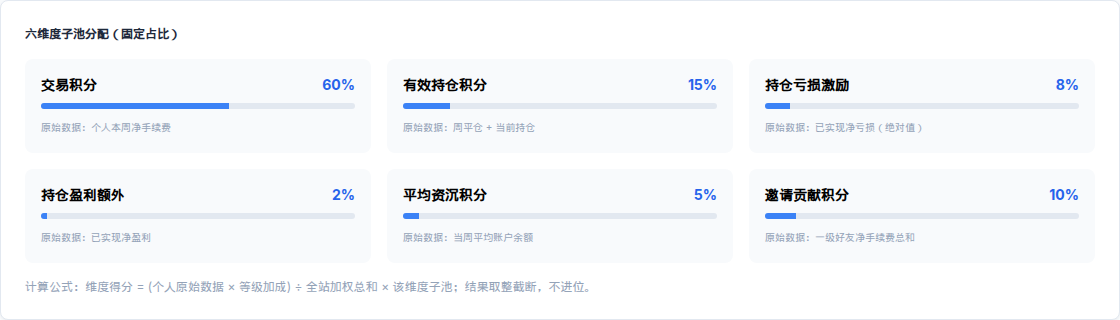
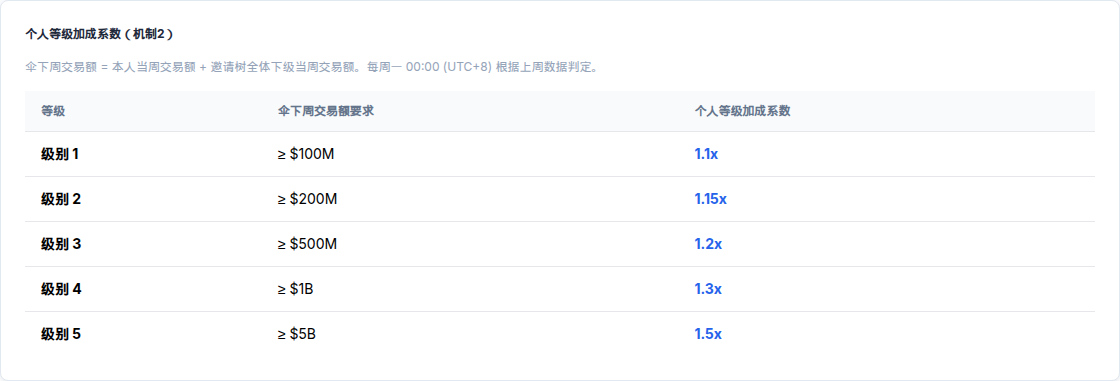
docs(points): update pool config dimension screenshots

diff --git a/perp_dex/admin/积分后台.html b/perp_dex/admin/积分后台.html
@@ -61,17 +61,103 @@
                 </div>
             </div>
 
-            <div class="card p-6">
-                <h3 class="font-bold text-slate-800 mb-4">六维度子池分配（固定占比）</h3>
-                <div class="grid grid-cols-3 gap-4 text-sm">
-                    <div class="p-4 bg-slate-50 rounded-lg"><div class="flex justify-between mb-2"><span class="font-bold">交易积分</span><span class="text-blue-600 font-black">60%</span></div><div class="dim-bar"><span style="width:60%"></span></div><p class="text-[10px] text-slate-400 mt-2">原始数据：个人本周净手续费</p></div>
-                    <div class="p-4 bg-slate-50 rounded-lg"><div class="flex justify-between mb-2"><span class="font-bold">有效持仓积分</span><span class="text-blue-600 font-black">15%</span></div><div class="dim-bar"><span style="width:15%"></span></div><p class="text-[10px] text-slate-400 mt-2">原始数据：周平仓 + 当前持仓</p></div>
-                    <div class="p-4 bg-slate-50 rounded-lg"><div class="flex justify-between mb-2"><span class="font-bold">持仓亏损激励</span><span class="text-blue-600 font-black">8%</span></div><div class="dim-bar"><span style="width:8%"></span></div><p class="text-[10px] text-slate-400 mt-2">原始数据：已实现净亏损（绝对值）</p></div>
-                    <div class="p-4 bg-slate-50 rounded-lg"><div class="flex justify-between mb-2"><span class="font-bold">持仓盈利额外</span><span class="text-blue-600 font-black">2%</span></div><div class="dim-bar"><span style="width:2%"></span></div><p class="text-[10px] text-slate-400 mt-2">原始数据：已实现净盈利</p></div>
-                    <div class="p-4 bg-slate-50 rounded-lg"><div class="flex justify-between mb-2"><span class="font-bold">平均资沉积分</span><span class="text-blue-600 font-black">5%</span></div><div class="dim-bar"><span style="width:5%"></span></div><p class="text-[10px] text-slate-400 mt-2">原始数据：当周平均账户余额</p></div>
-                    <div class="p-4 bg-slate-50 rounded-lg"><div class="flex justify-between mb-2"><span class="font-bold">邀请贡献积分</span><span class="text-blue-600 font-black">10%</span></div><div class="dim-bar"><span style="width:10%"></span></div><p class="text-[10px] text-slate-400 mt-2">原始数据：一级好友净手续费总和</p></div>
+            <div id="dim-pool-config-card" class="card p-6">
+                <div class="flex items-start justify-between gap-4 mb-4">
+                    <div>
+                        <h3 class="font-bold text-slate-800">六维度子池分配（可配置占比）</h3>
+                        <p class="text-xs text-slate-400 mt-1">各维度占比可调整，保存时须校验合计恰好等于 100%。</p>
+                    </div>
+                    <button onclick="saveDimPoolConfig()" class="shrink-0 bg-blue-600 text-white px-5 py-2.5 rounded-lg text-sm font-bold hover:bg-blue-700">保存子池配置</button>
                 </div>
-                <p class="text-xs text-slate-400 mt-4">计算公式：维度得分 = (个人原始数据 × 等级加成) ÷ 全站加权总和 × 该维度子池；结果取整截断，不进位。</p>
+
+                <div class="mb-4 p-4 border border-blue-100 bg-blue-50/60 rounded-lg">
+                    <div class="flex flex-wrap items-end gap-3">
+                        <div>
+                            <label class="block text-xs font-bold text-slate-600 uppercase mb-2">有效持仓最小时长</label>
+                            <div class="flex items-center gap-2">
+                                <input id="minHoldingDuration" type="number" value="1" min="1" step="1" class="w-24 border border-slate-200 rounded-lg p-2.5 text-sm font-bold outline-none bg-white">
+                                <select id="minHoldingUnit" class="border border-slate-200 rounded-lg p-2.5 text-sm bg-white outline-none">
+                                    <option value="hour" selected>小时</option>
+                                    <option value="minute">分钟</option>
+                                </select>
+                            </div>
+                        </div>
+                        <p class="text-[11px] text-slate-500 max-w-xl">仅统计持仓时长超过该阈值的仓位。有效持仓原始数据 = 当前持仓（时长&gt;阈值）持仓金额 + 当周历史已平仓持仓（时长&gt;阈值）持仓金额。</p>
+                    </div>
+                </div>
+
+                <div class="grid grid-cols-3 gap-4 text-sm">
+                    <div class="p-4 bg-slate-50 rounded-lg">
+                        <div class="flex justify-between items-center mb-2 gap-2">
+                            <span class="font-bold">交易积分</span>
+                            <div class="flex items-center gap-1 shrink-0">
+                                <input id="dimPctTrade" type="number" value="60" min="0" max="100" step="1" oninput="updateDimPctUI()" class="w-14 border border-slate-200 rounded px-2 py-1 text-right text-blue-600 font-black outline-none bg-white">
+                                <span class="text-blue-600 font-black">%</span>
+                            </div>
+                        </div>
+                        <div class="dim-bar"><span id="dimBarTrade" style="width:60%"></span></div>
+                        <p class="text-[10px] text-slate-400 mt-2">原始数据：个人本周净手续费</p>
+                    </div>
+                    <div class="p-4 bg-slate-50 rounded-lg">
+                        <div class="flex justify-between items-center mb-2 gap-2">
+                            <span class="font-bold">有效持仓积分</span>
+                            <div class="flex items-center gap-1 shrink-0">
+                                <input id="dimPctPosition" type="number" value="15" min="0" max="100" step="1" oninput="updateDimPctUI()" class="w-14 border border-slate-200 rounded px-2 py-1 text-right text-blue-600 font-black outline-none bg-white">
+                                <span class="text-blue-600 font-black">%</span>
+                            </div>
+                        </div>
+                        <div class="dim-bar"><span id="dimBarPosition" style="width:15%"></span></div>
+                        <p class="text-[10px] text-slate-400 mt-2">原始数据：有效持仓金额（当前+当周历史平仓，均须&gt;最小时长）</p>
+                    </div>
+                    <div class="p-4 bg-slate-50 rounded-lg">
+                        <div class="flex justify-between items-center mb-2 gap-2">
+                            <span class="font-bold">持仓亏损激励</span>
+                            <div class="flex items-center gap-1 shrink-0">
+                                <input id="dimPctLoss" type="number" value="8" min="0" max="100" step="1" oninput="updateDimPctUI()" class="w-14 border border-slate-200 rounded px-2 py-1 text-right text-blue-600 font-black outline-none bg-white">
+                                <span class="text-blue-600 font-black">%</span>
+                            </div>
+                        </div>
+                        <div class="dim-bar"><span id="dimBarLoss" style="width:8%"></span></div>
+                        <p class="text-[10px] text-slate-400 mt-2">原始数据：已实现净亏损（绝对值）</p>
+                    </div>
+                    <div class="p-4 bg-slate-50 rounded-lg">
+                        <div class="flex justify-between items-center mb-2 gap-2">
+                            <span class="font-bold">持仓盈利额外</span>
+                            <div class="flex items-center gap-1 shrink-0">
+                                <input id="dimPctProfit" type="number" value="2" min="0" max="100" step="1" oninput="updateDimPctUI()" class="w-14 border border-slate-200 rounded px-2 py-1 text-right text-blue-600 font-black outline-none bg-white">
+                                <span class="text-blue-600 font-black">%</span>
+                            </div>
+                        </div>
+                        <div class="dim-bar"><span id="dimBarProfit" style="width:2%"></span></div>
+                        <p class="text-[10px] text-slate-400 mt-2">原始数据：已实现净盈利</p>
+                    </div>
+                    <div class="p-4 bg-slate-50 rounded-lg">
+                        <div class="flex justify-between items-center mb-2 gap-2">
+                            <span class="font-bold">平均资沉积分</span>
+                            <div class="flex items-center gap-1 shrink-0">
+                                <input id="dimPctBalance" type="number" value="5" min="0" max="100" step="1" oninput="updateDimPctUI()" class="w-14 border border-slate-200 rounded px-2 py-1 text-right text-blue-600 font-black outline-none bg-white">
+                                <span class="text-blue-600 font-black">%</span>
+                            </div>
+                        </div>
+                        <div class="dim-bar"><span id="dimBarBalance" style="width:5%"></span></div>
+                        <p class="text-[10px] text-slate-400 mt-2">原始数据：当周平均账户余额</p>
+                    </div>
+                    <div class="p-4 bg-slate-50 rounded-lg">
+                        <div class="flex justify-between items-center mb-2 gap-2">
+                            <span class="font-bold">邀请贡献积分</span>
+                            <div class="flex items-center gap-1 shrink-0">
+                                <input id="dimPctInvite" type="number" value="10" min="0" max="100" step="1" oninput="updateDimPctUI()" class="w-14 border border-slate-200 rounded px-2 py-1 text-right text-blue-600 font-black outline-none bg-white">
+                                <span class="text-blue-600 font-black">%</span>
+                            </div>
+                        </div>
+                        <div class="dim-bar"><span id="dimBarInvite" style="width:10%"></span></div>
+                        <p class="text-[10px] text-slate-400 mt-2">原始数据：一级好友净手续费总和</p>
+                    </div>
+                </div>
+                <div class="flex items-center justify-between mt-4 pt-4 border-t border-slate-100">
+                    <p class="text-xs text-slate-400">计算公式：维度得分 = (个人原始数据 × 等级加成) ÷ 全站加权总和 × 该维度子池；结果取整截断，不进位。</p>
+                    <p id="dimPctSumLabel" class="text-sm font-bold text-green-600 shrink-0 ml-4">合计：100%</p>
+                </div>
             </div>
 
             <div class="card p-6">
@@ -508,12 +594,56 @@
         renderPointsLogs(list);
     }
 
+    const DIM_PCT_IDS = ['dimPctTrade', 'dimPctPosition', 'dimPctLoss', 'dimPctProfit', 'dimPctBalance', 'dimPctInvite'];
+    const DIM_BAR_IDS = ['dimBarTrade', 'dimBarPosition', 'dimBarLoss', 'dimBarProfit', 'dimBarBalance', 'dimBarInvite'];
+
+    function getDimPctSum() {
+        return DIM_PCT_IDS.reduce((sum, id) => sum + Number(document.getElementById(id).value || 0), 0);
+    }
+
+    function updateDimPctUI() {
+        DIM_PCT_IDS.forEach((id, i) => {
+            const pct = Math.min(100, Math.max(0, Number(document.getElementById(id).value || 0)));
+            document.getElementById(DIM_BAR_IDS[i]).style.width = pct + '%';
+        });
+        const sum = getDimPctSum();
+        const label = document.getElementById('dimPctSumLabel');
+        label.textContent = '合计：' + sum + '%';
+        label.className = sum === 100
+            ? 'text-sm font-bold text-green-600 shrink-0 ml-4'
+            : 'text-sm font-bold text-red-600 shrink-0 ml-4';
+    }
+
     function savePoolConfig() {
         const val = document.getElementById('weeklyPoolInput').value;
         POINTS_LOGS.unshift({ time: new Date().toISOString().slice(0, 16).replace('T', ' '), operator: 'Points_Admin', type: '规则配置', user: '-', detail: '每周积分总池更新为 ' + Number(val).toLocaleString(), points: '-', remark: '后台配置变更' });
         renderPointsLogs(POINTS_LOGS);
         alert('总池配置已保存，已写入操作记录');
     }
+
+    function saveDimPoolConfig() {
+        const sum = getDimPctSum();
+        if (sum !== 100) {
+            alert('六维度占比合计须恰好等于 100%，当前为 ' + sum + '%。请调整后再保存。');
+            return;
+        }
+        const duration = document.getElementById('minHoldingDuration').value;
+        const unit = document.getElementById('minHoldingUnit').value === 'minute' ? '分钟' : '小时';
+        const pctDetail = DIM_PCT_IDS.map(id => Number(document.getElementById(id).value)).join('/');
+        POINTS_LOGS.unshift({
+            time: new Date().toISOString().slice(0, 16).replace('T', ' '),
+            operator: 'Points_Admin',
+            type: '规则配置',
+            user: '-',
+            detail: '子池占比更新为 ' + pctDetail + '%；有效持仓最小时长 ' + duration + unit,
+            points: '-',
+            remark: '后台配置变更'
+        });
+        renderPointsLogs(POINTS_LOGS);
+        alert('子池配置已保存，已写入操作记录');
+    }
+
+    updateDimPctUI();
 
     let manualInputMode = 'lines';
 
